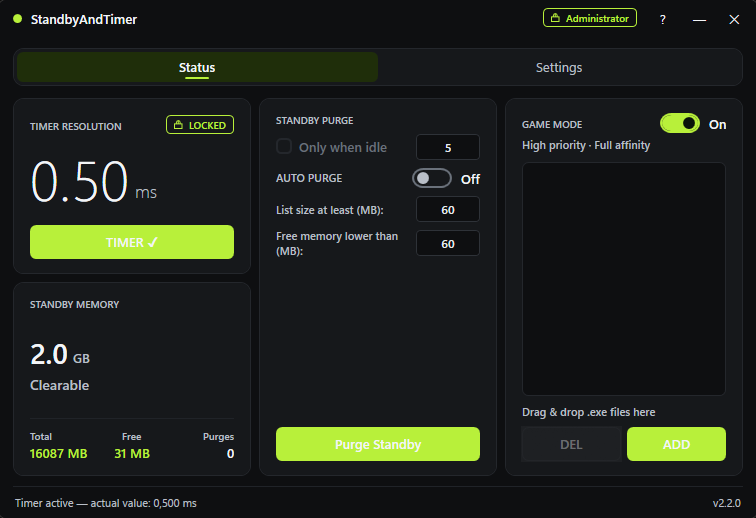
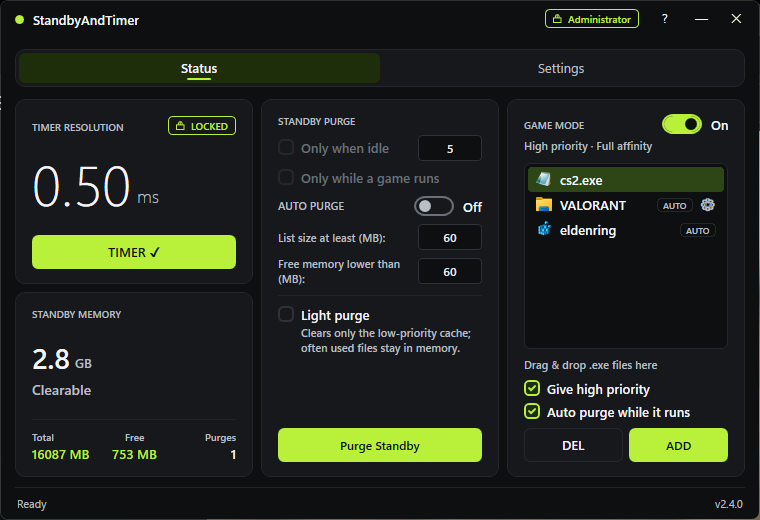
docs: current screenshots (status and settings) in the README
Captured from the screen (GPU rendering) with UiRender --docs, Dark /
English; the old one showed v2.2.0.

diff --git a/README.md b/README.md
@@ -7,7 +7,8 @@ A small Windows app for gamers: it makes the system timer finer, frees memory Wi
 **[English](#english) · [Türkçe](#türkçe)**
 
 <p align="center">
-  <img src="docs/screenshot.png" width="70%" alt="StandbyAndTimer main window" />
+  <img src="docs/screenshot.png" width="49%" alt="StandbyAndTimer: status page with the timer, standby memory, purge options and Game Mode list" />
+  <img src="docs/screenshot-settings.png" width="49%" alt="StandbyAndTimer: settings page with startup, notifications, appearance, hotkeys and backup" />
 </p>
 
 [![Latest release](https://img.shields.io/github/v/release/Layellie/StandbyAndTimer?label=latest)](https://github.com/Layellie/StandbyAndTimer/releases/latest)
